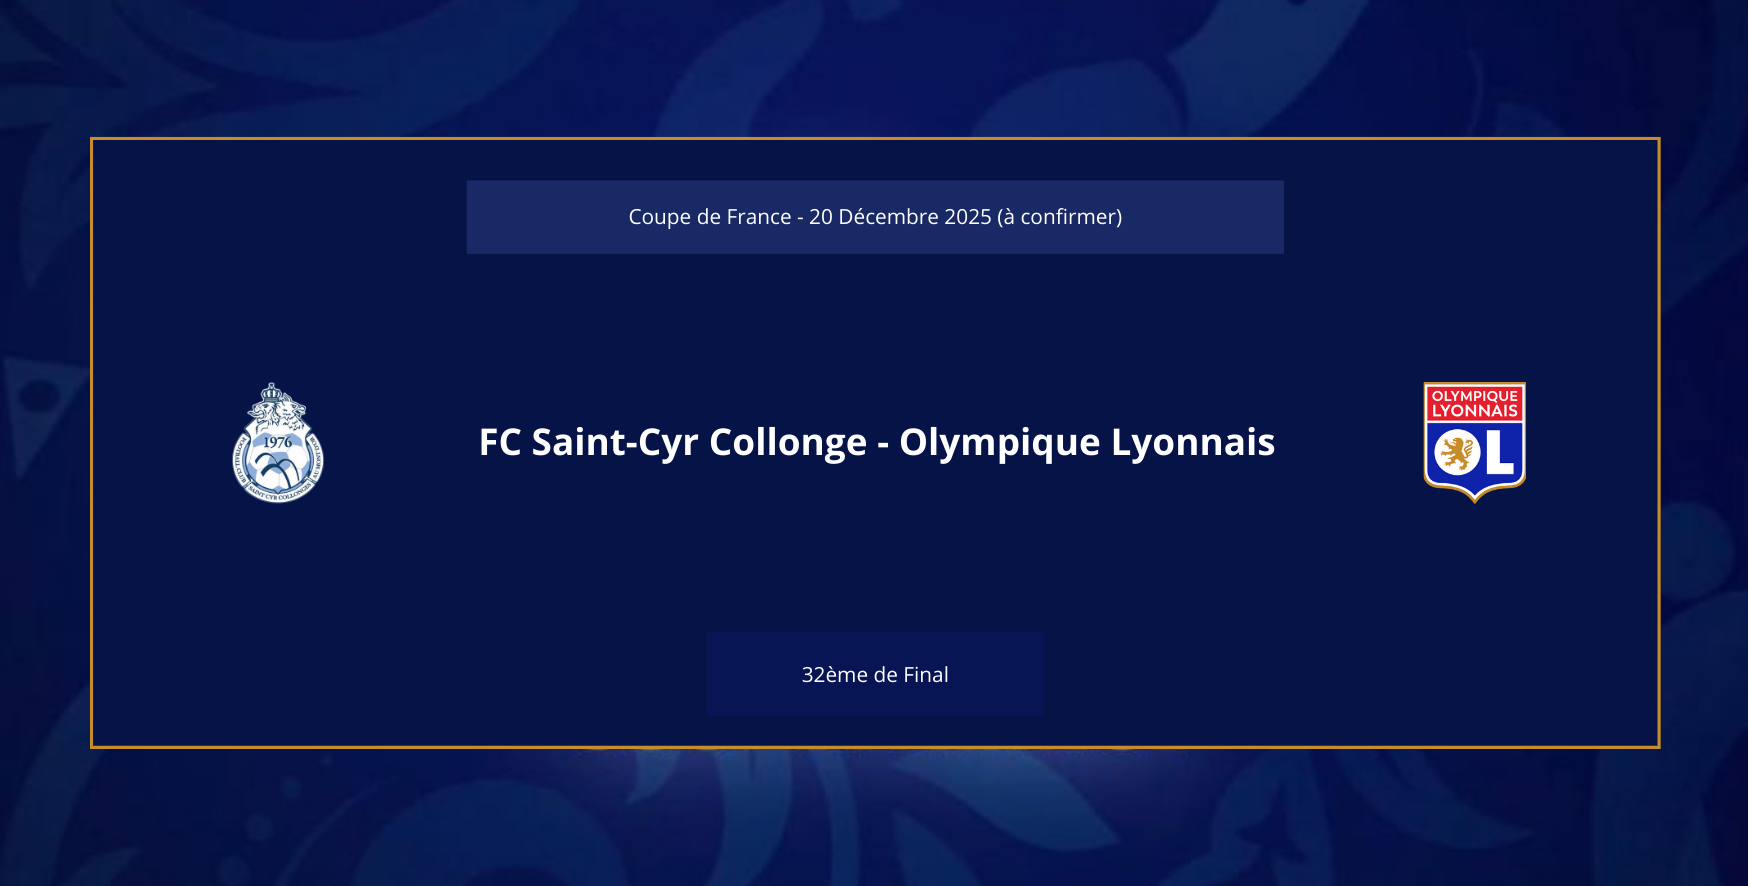
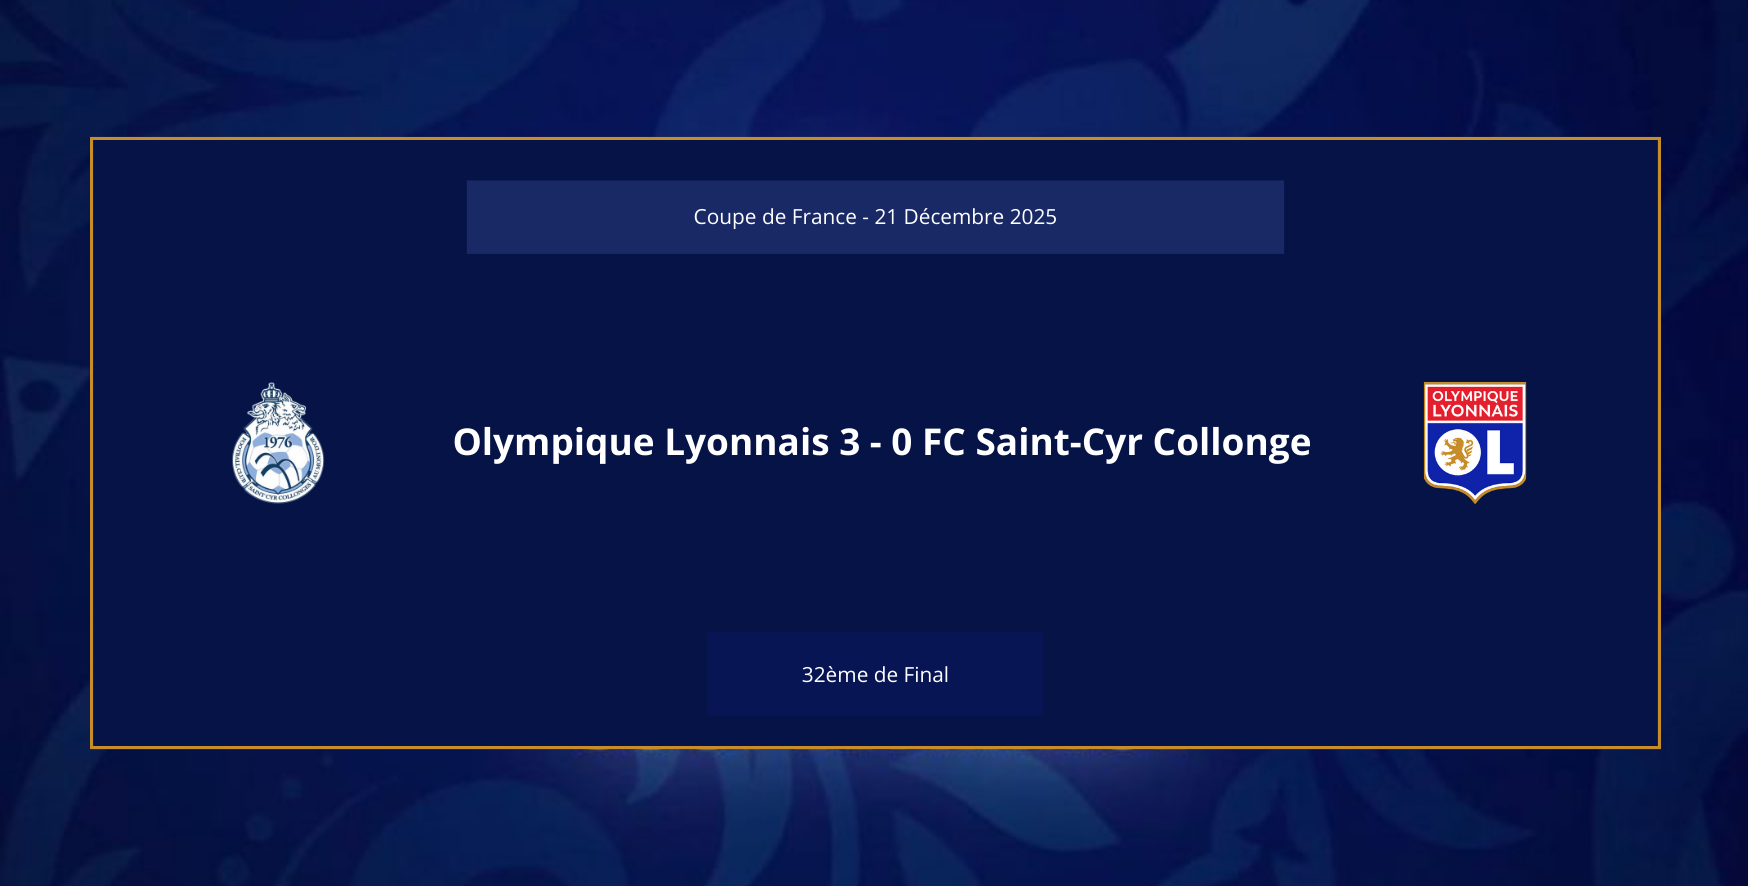
MAJ match suite cdf

Changed region(s): [[0.2471, 0.4876, 0.7723, 0.5181], [0.3707, 0.2133, 0.6178, 0.2743], [0.8032, 0.4266, 0.865, 0.5181]]

diff --git a/index.html b/index.html
@@ -62,6 +62,11 @@
                     <section class="bordure">
                         <h3>Dernier Match</h3>
                         <article class="sous_box">
+                            <img src="image_match/FCSCC-OL.png" alt="FC Saint Cyr Collonge - Ol" width="80%">
+                            <p class="bouton">Voir le match</p>
+                        </article>
+
+                        <article class="sous_box">
                             <img src="image_match/OL-HAC.png" alt="Olympique Lyonnais - Havre AC" width="80%">
                             <p class="bouton">Voir le match</p>
                         </article>
@@ -75,12 +80,6 @@
                             <img src="image_match/FCL - OL.png" alt="FC Lorient 1 - 0 Olympique Lyonnais" width="80%">
                             <p class="bouton">Voir le match</p>
                         </article>
-
-                        <article class="sous_box">
-                            <img src="image_match/OL - FCN.png" alt="Olympique Lyonnais 3 - 0 FC Nante" width="80%">
-                            <p class="bouton">Voir le match</p>
-                        </article>
-
                         <a href="match.html" class="bouton-fin">Voir plus de match</a>
                     </section>
                 </div>
@@ -88,11 +87,11 @@
                     <section class="bordure">
                         <h3>Match à venir</h3>
                         <article class="sous_box">
-                            <img src="image_match/FCSCC-OL.png" alt="FC Saint Cyr Collonge - Ol" width="80%">
+                            <img src="image_match/OL-ASM.png" alt="Olympique Lyonnais - AS Monaco" width="80%">
                             <p class="bouton">Voir le match</p>
                         </article>
                         <article class="sous_box">
-                            <img src="image_match/OL-ASM.png" alt="Olympique Lyonnais - AS Monaco" width="80%">
+                            <img src="image_match/LOSC-OL_cdf.png" alt="Lille OSC - Olympique Lyonnais" width="80%">
                             <p class="bouton">Voir le match</p>
                         </article>
                         <article class="sous_box">

diff --git a/match.html b/match.html
@@ -69,12 +69,16 @@
                     <a class="bouton">Consulter</a>
                 </div>
                 <div class="match">
-                    <img src="image_match/FCL - OL.png" alt="FC Lorien-Olympique Lyonnais">
+                    <img src="image_match/FCSCC-OL.png" alt="FC Saint-Cyr Collonges - OL">
                     <a class="bouton">Consulter</a>
                 </div>
 
                 <details class="bouton-plus-style">
                     <summary class="bouton-plus">Voir plus</summary>
+                    <div class="match">
+                        <img src="image_match/FCL - OL.png" alt="FC Lorien-Olympique Lyonnais">
+                        <a class="bouton">Consulter</a>
+                    </div>
                     <div class="match">
                         <img src="image_match/OL - FCN.png" alt="OL 3 - 0 FC Nante">
                         <a class="bouton">Consulter</a>
@@ -158,11 +162,11 @@
             <p class="note">Note : Les matchs se lisent colonne par colonne</p>
             <section class="regroupement-match">
                 <div class="match">
-                    <img src="image_match/FCSCC-OL.png" alt="FC Saint-Cyr Collonges - OL">
+                    <img src="image_match/ASM-OL.png" alt="AS Monaco - OL">
                     <a class="bouton">Consulter</a>
                 </div>
                 <div class="match">
-                    <img src="image_match/ASM-OL.png" alt="AS Monaco - OL">
+                    <img src="image_match/LOSC-OL_cdf.png" alt="Lille OSC - Olympique Lyonnais">
                     <a class="bouton">Consulter</a>
                 </div>
                 <div class="match">
